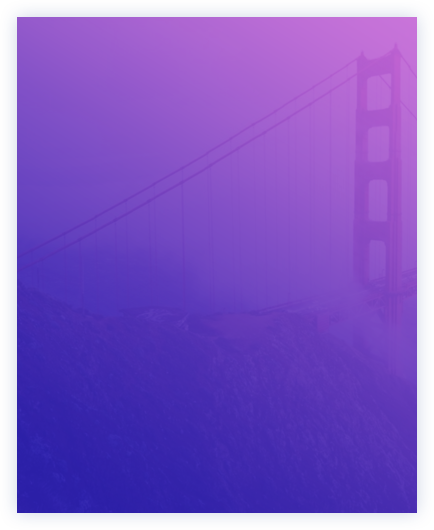
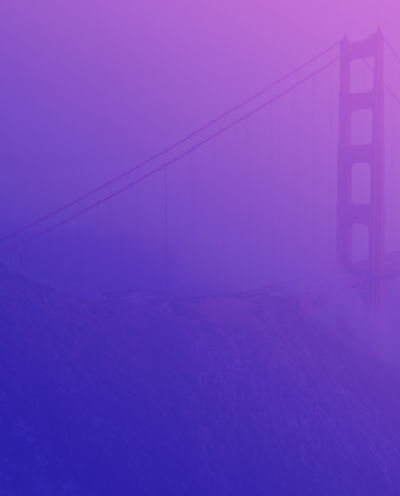
made few adjustments

Changed region(s): [[0.0, 0.0, 1.0, 1.0]]

diff --git a/docs/index.html b/docs/index.html
@@ -11,13 +11,15 @@
 <body>
     <div class="contact__wrapper">
         <form class="contact__form" action="index.html" method="GET">
-            <div class="contact__tabs">
-                <a href="#" class="contact__sign">
-                    <button class="contact__tab" type="button">Sign in</button>
-                </a>
-                <a href="#" class="contact__join">
-                    <button class="contact__tab" type="button">Join Us</button>
-                </a>
+            <div class="contact__wrap">
+                <div class="contact__tabs">
+                    <a href="#" class="contact__sign">
+                        <button class="contact__tab" type="button">Sign in</button>
+                    </a>
+                    <a href="#" class="contact__join">
+                        <button class="contact__tab" type="button">Join Us</button>
+                    </a>
+                </div>
             </div>
             <div class="contact__wrap">
             <label for="name">Username</label>
@@ -27,10 +29,12 @@
             <label for="pass">Password</label>
             <input class="contact__input" type="text" id="pass" name="pass"/>
             </div>
+            <div class="contact__wrap">
             <label class="container"> Keep me signed in
                 <input type="checkbox" checked="checked">
                 <span class="checkmark"></span>
             </label>
+            </div>
             <button class="contact__button" type="submit" value="Submit">Sign in</button>
         </form>
     </div>

diff --git a/docs/css/styles.css b/docs/css/styles.css
@@ -5,8 +5,11 @@ body{
 .contact__wrapper{
     width: 400px;
     height: 496px;
-    background-image: linear-gradient(32deg, #3023ae 0%, #c86dd7 100%);
+    background-image: url("/docs/img/back.png");
+    box-shadow: 0 25px 20px rgba(2, 41, 120, 0.91);
+    opacity: 0.91;
     
+    background-size: cover;
     position: absolute;
     top: 50%;
     left: 50%;
@@ -48,6 +51,7 @@ input, button, label {
     height: 42px;
     border: 2px solid rgba(191, 185, 204, 0.54);
     background: transparent;
+    outline: none;
 }
 
 label {
@@ -172,11 +176,14 @@ label.container {
 .contact__sign {
     text-decoration: none;
     color: inherit;
+    margin-right: 25px;
+    border-bottom: 2px solid transparent;
 }
 
 .contact__join {
     text-decoration: none;
     color: inherit;
+    border-bottom: 2px solid transparent;
 }
 
 .contact__sign:hover {
@@ -186,4 +193,5 @@ label.container {
 .contact__join:hover {
     border-bottom: 2px solid #e66a64;
 }
+
 
